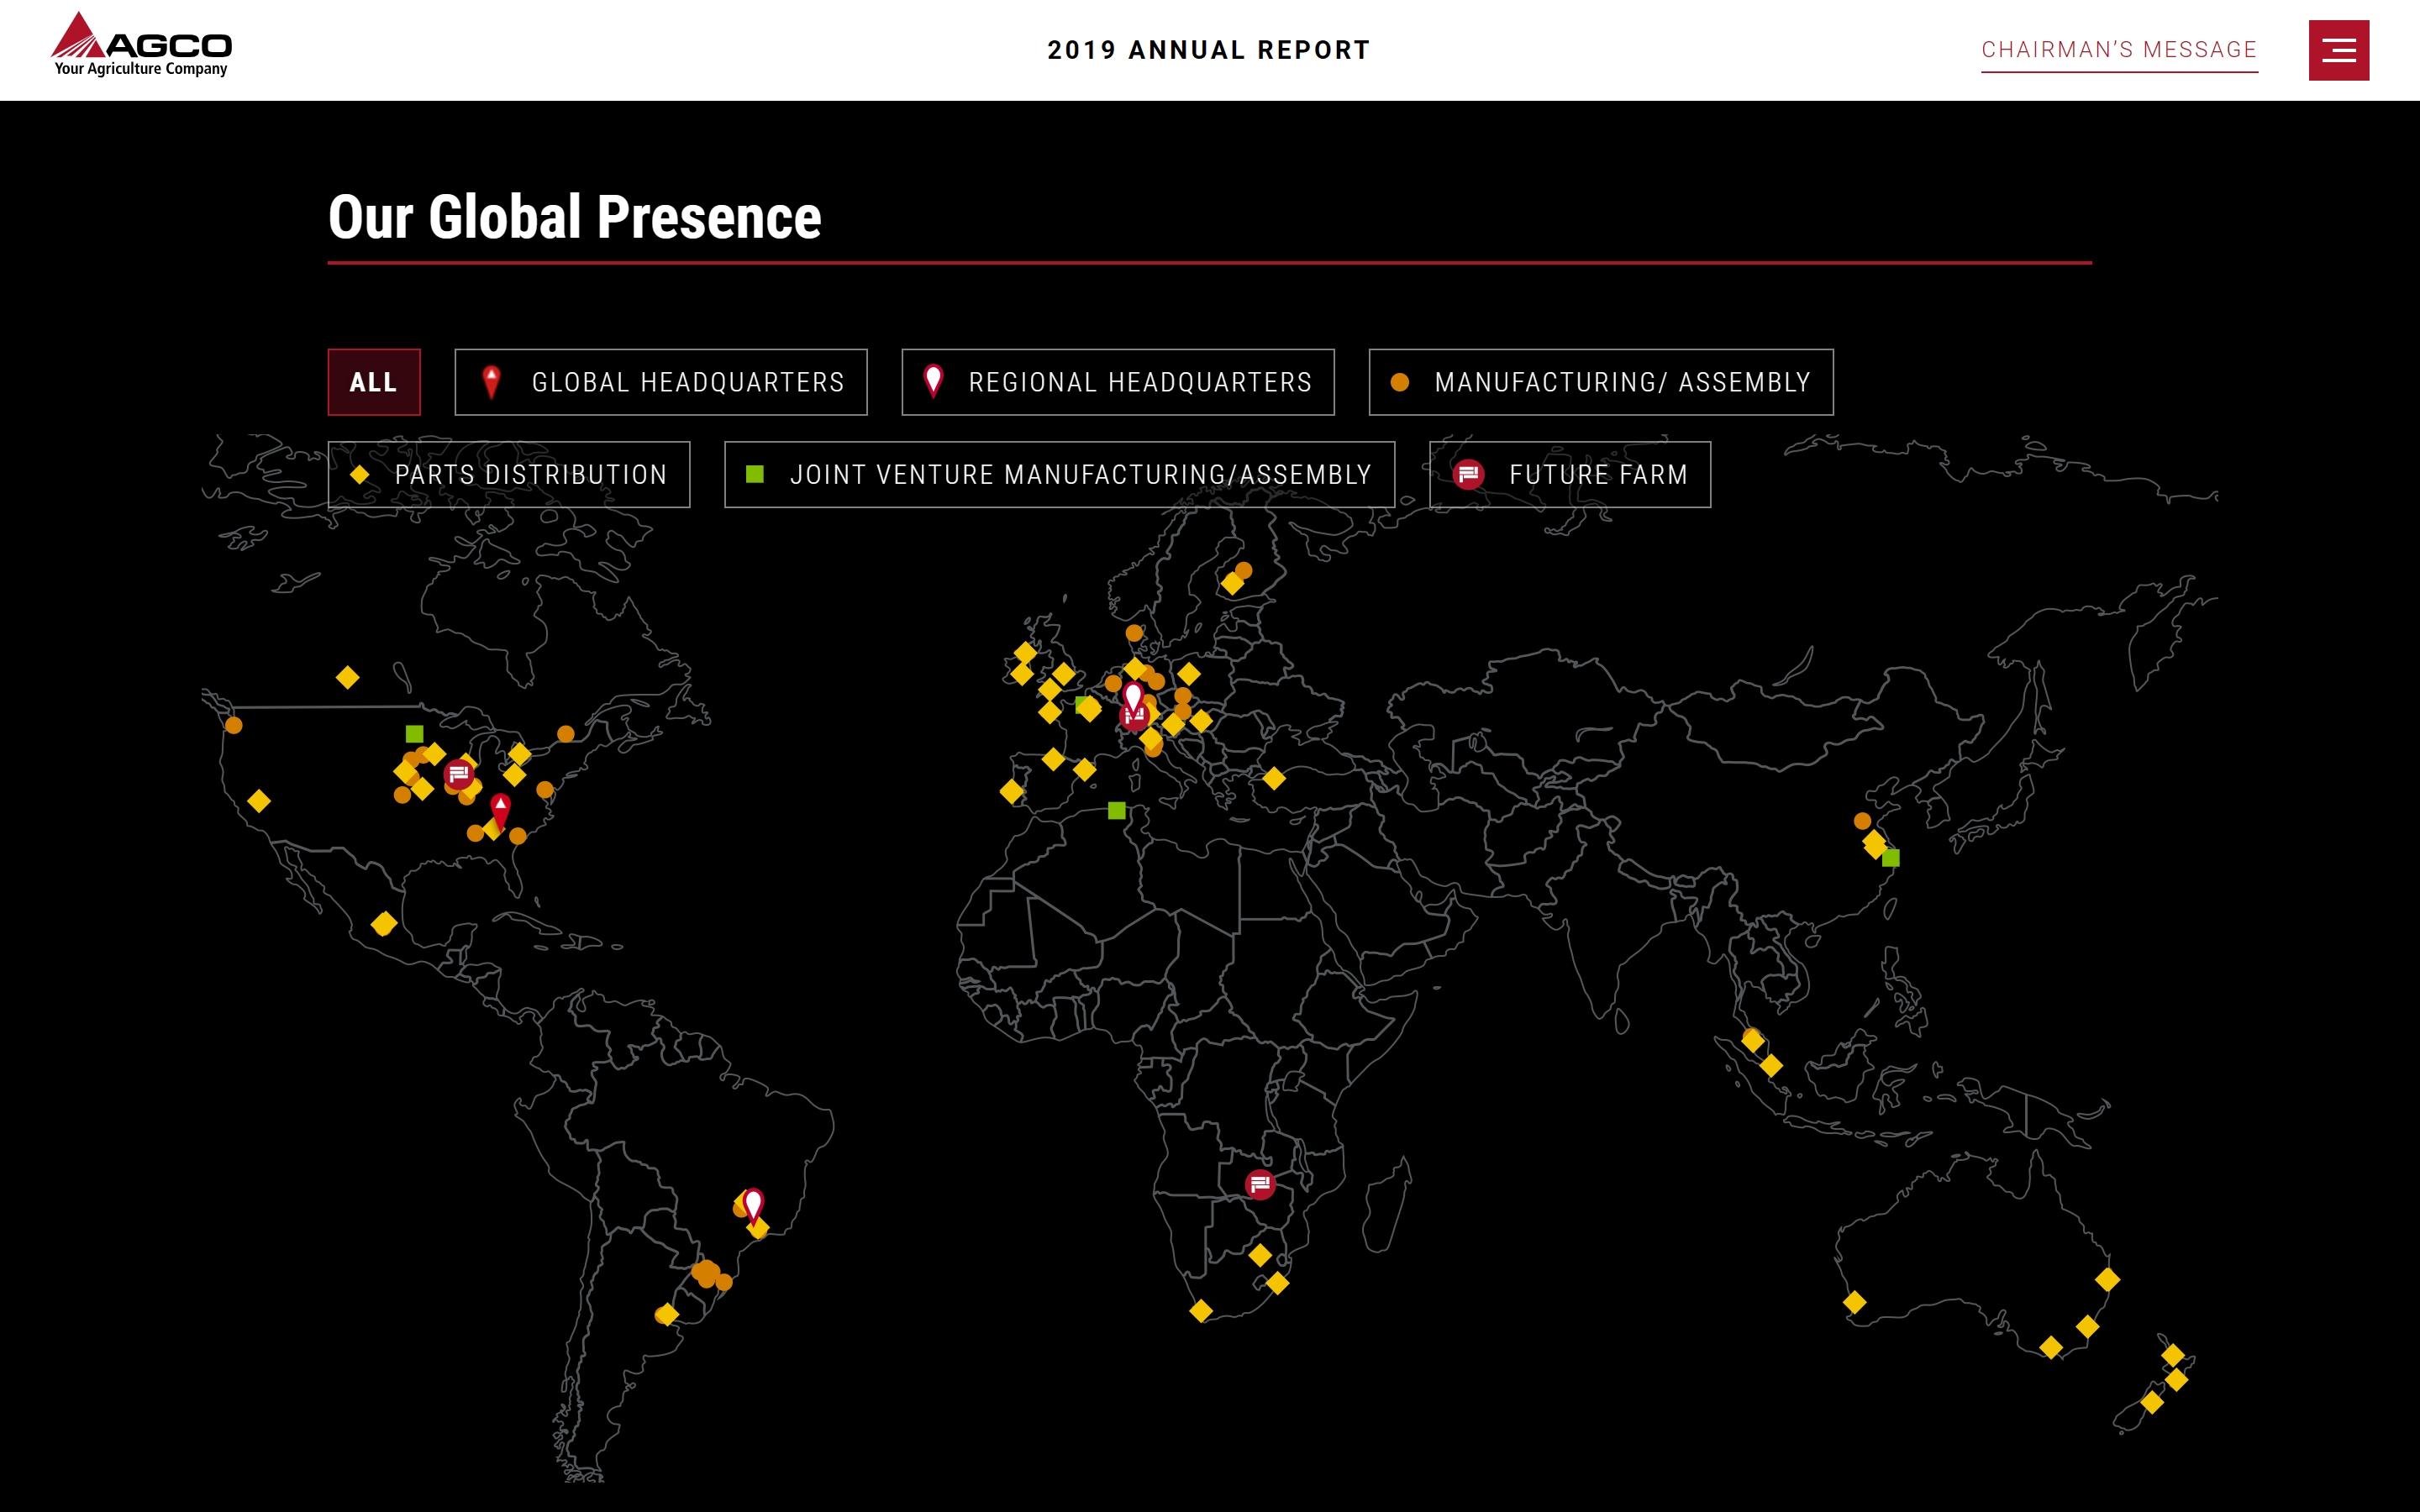
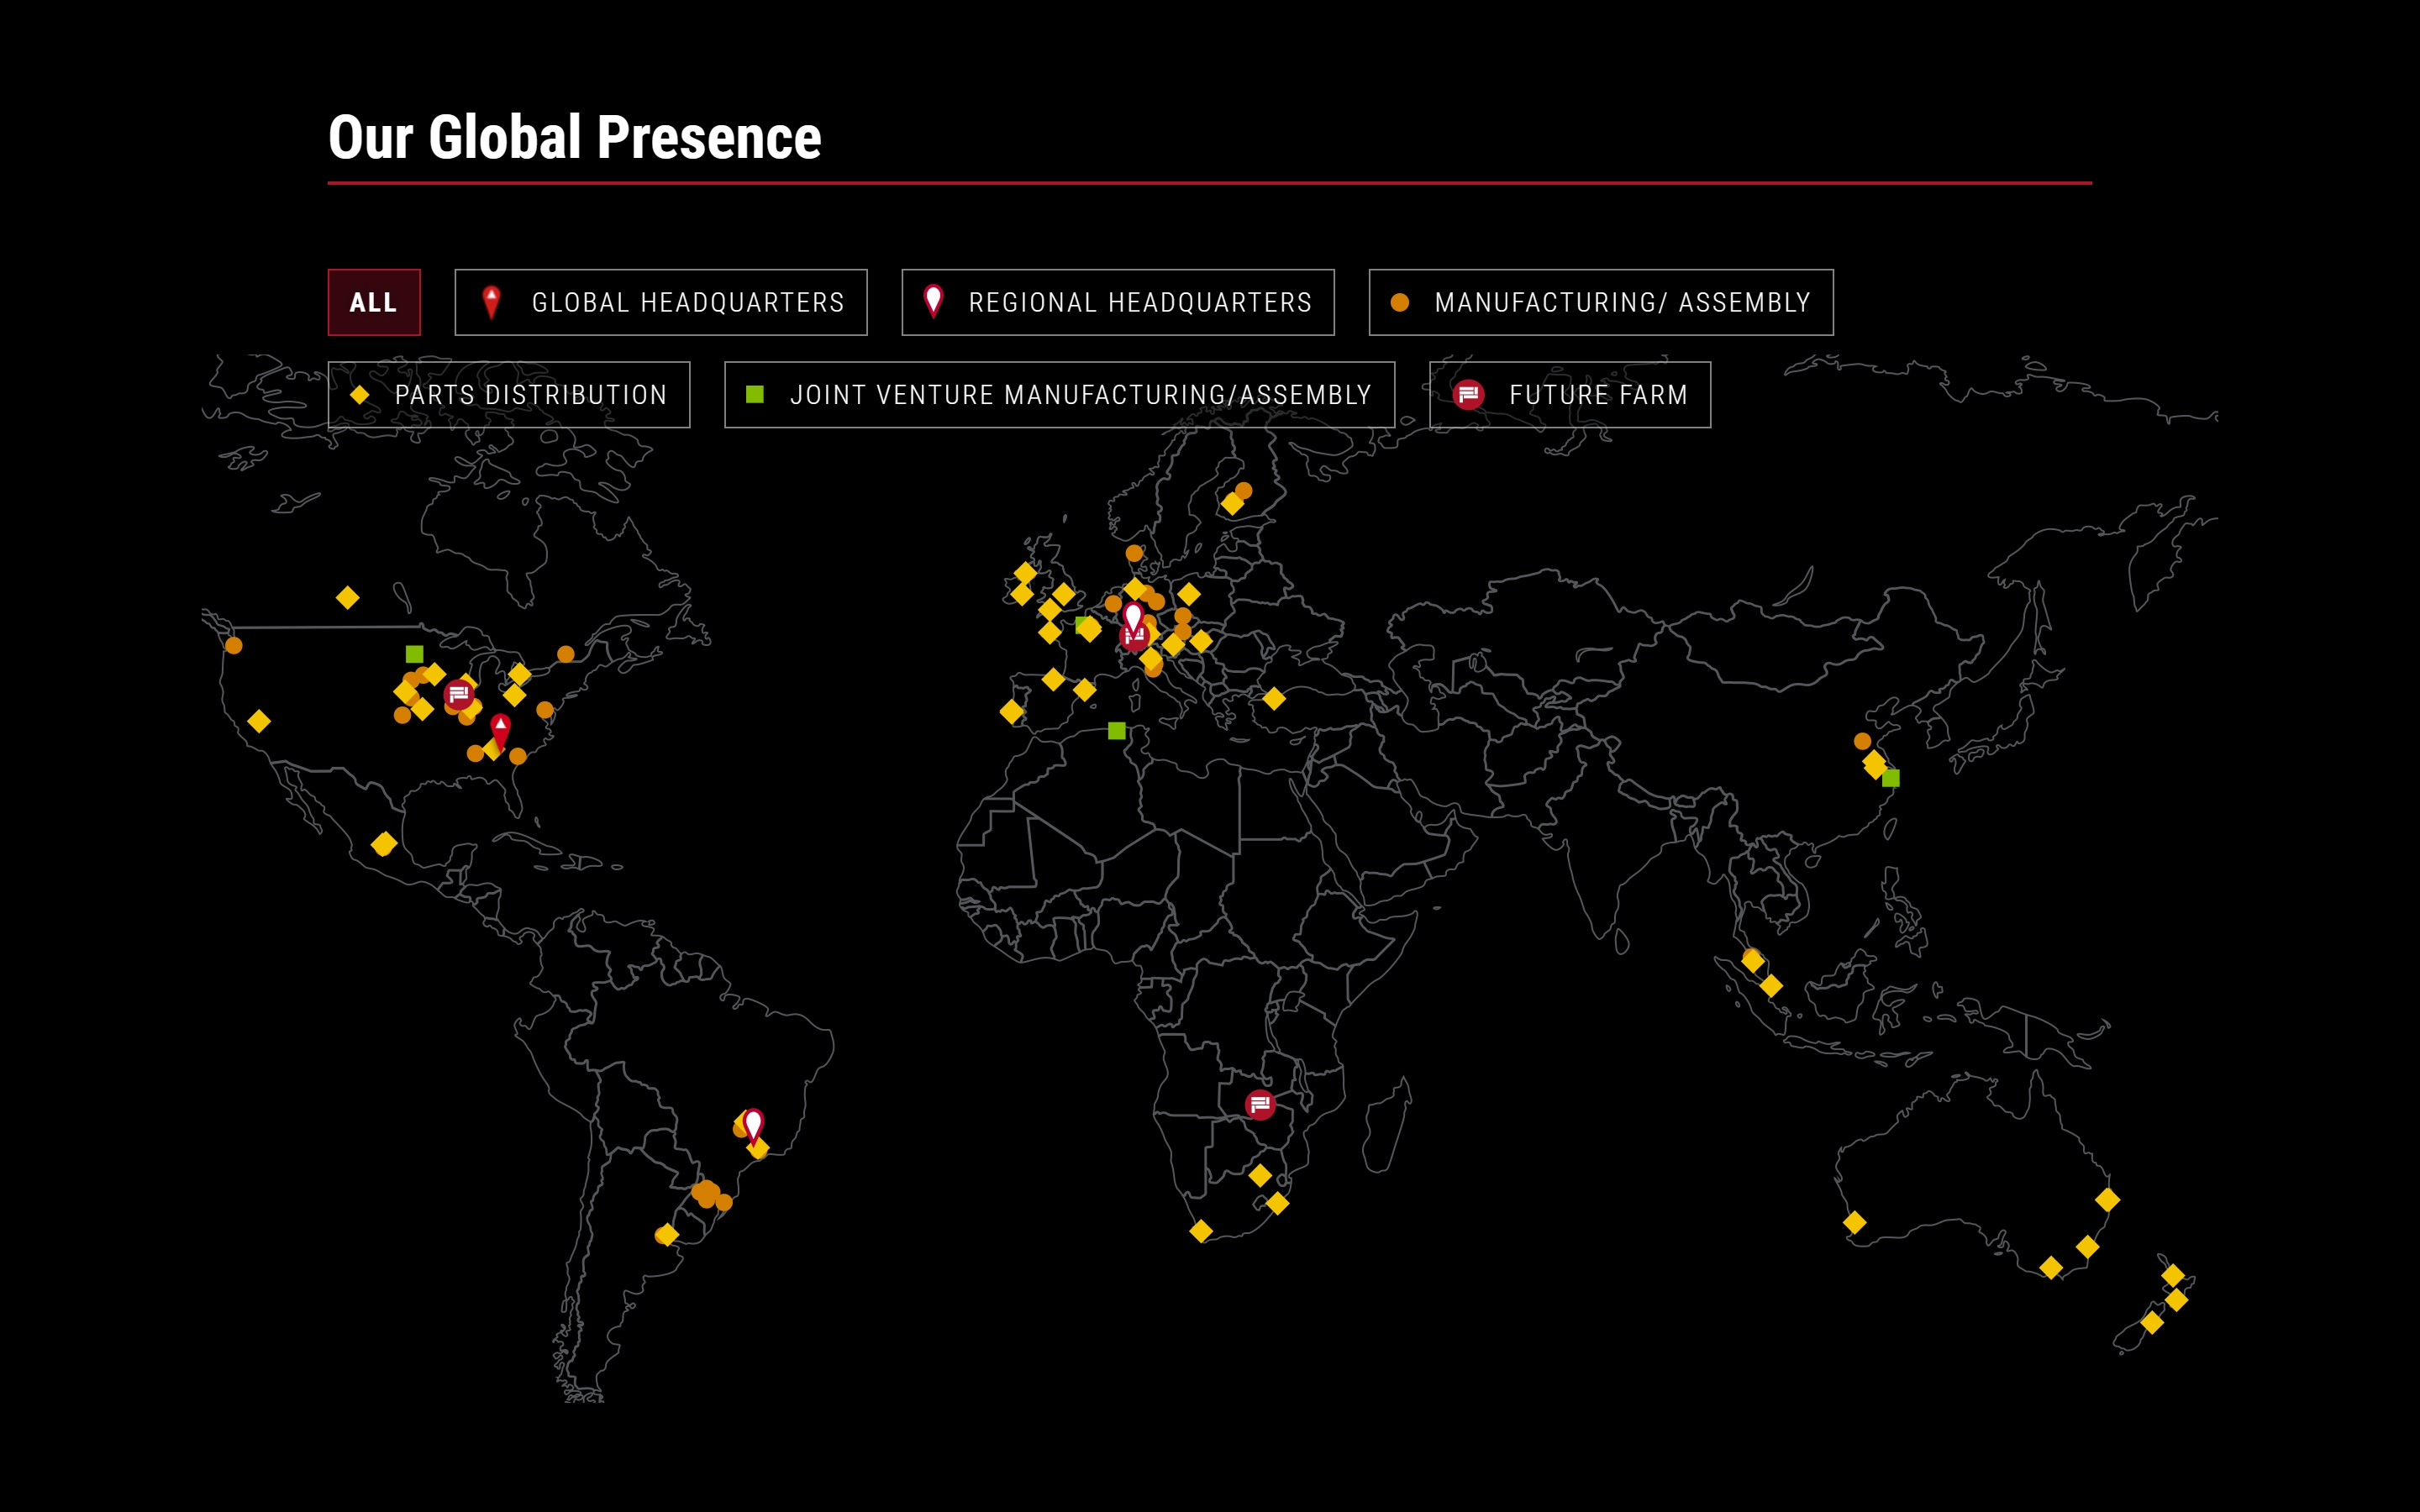
Updates

diff --git a/src/assets/sass/03.components/cover.scss b/src/assets/sass/03.components/cover.scss
@@ -1,0 +1,11 @@
+.cover {
+  picture,
+  img {
+    height: 100%;
+  }
+
+  img {
+    object-fit: cover;
+    object-position: top center;
+  }
+}

diff --git a/src/assets/sass/05.app/reveal.scss b/src/assets/sass/05.app/reveal.scss
@@ -20,7 +20,7 @@
   will-change: clip-path, opacity;
 
   &.is-inview {
-    clip-path: inset(0% 0);
+    clip-path: inset(-1px);
   }
 }
 

diff --git a/src/assets/sass/03.components/_index.scss b/src/assets/sass/03.components/_index.scss
@@ -10,4 +10,5 @@
   @include meta.load-css("stat");
   @include meta.load-css("quote");
   @include meta.load-css("image-reel");
+  @include meta.load-css("cover");
 }